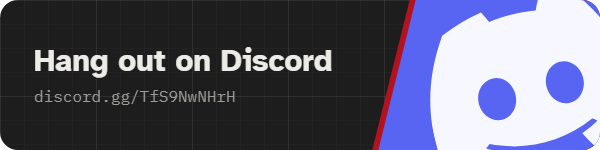
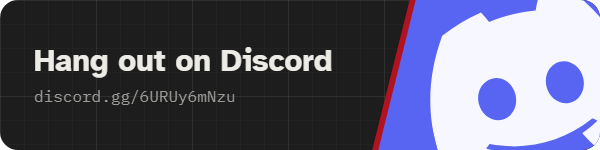
New permanent Discord invite

Changed region(s): [[0.21, 0.5867, 0.39, 0.6933]]

diff --git a/README.md b/README.md
@@ -5,6 +5,6 @@ I'm Luke. Mods, tools, whatever I'm into at the time.
 Right now: [PZMM](https://github.com/SEVNC3/pz-mod-manager), a free mod manager for Project Zomboid. It sets up Project Viewpoint for you too.
 
 <a href="https://github.com/SEVNC3/pz-mod-manager"><img src="assets/github.png" width="300" alt="PZMM on GitHub"></a>
-<a href="https://discord.gg/TfS9NwNHrH"><img src="assets/discord.png" width="300" alt="Discord"></a>
+<a href="https://discord.com/invite/6URUy6mNzu"><img src="assets/discord.png" width="300" alt="Discord"></a>
 <a href="https://www.nexusmods.com/profile/SEVNC3"><img src="assets/nexus.png" width="300" alt="Nexus Mods"></a>
 <a href="https://ko-fi.com/sevnc3"><img src="assets/kofi.png" width="300" alt="Ko-fi"></a>
